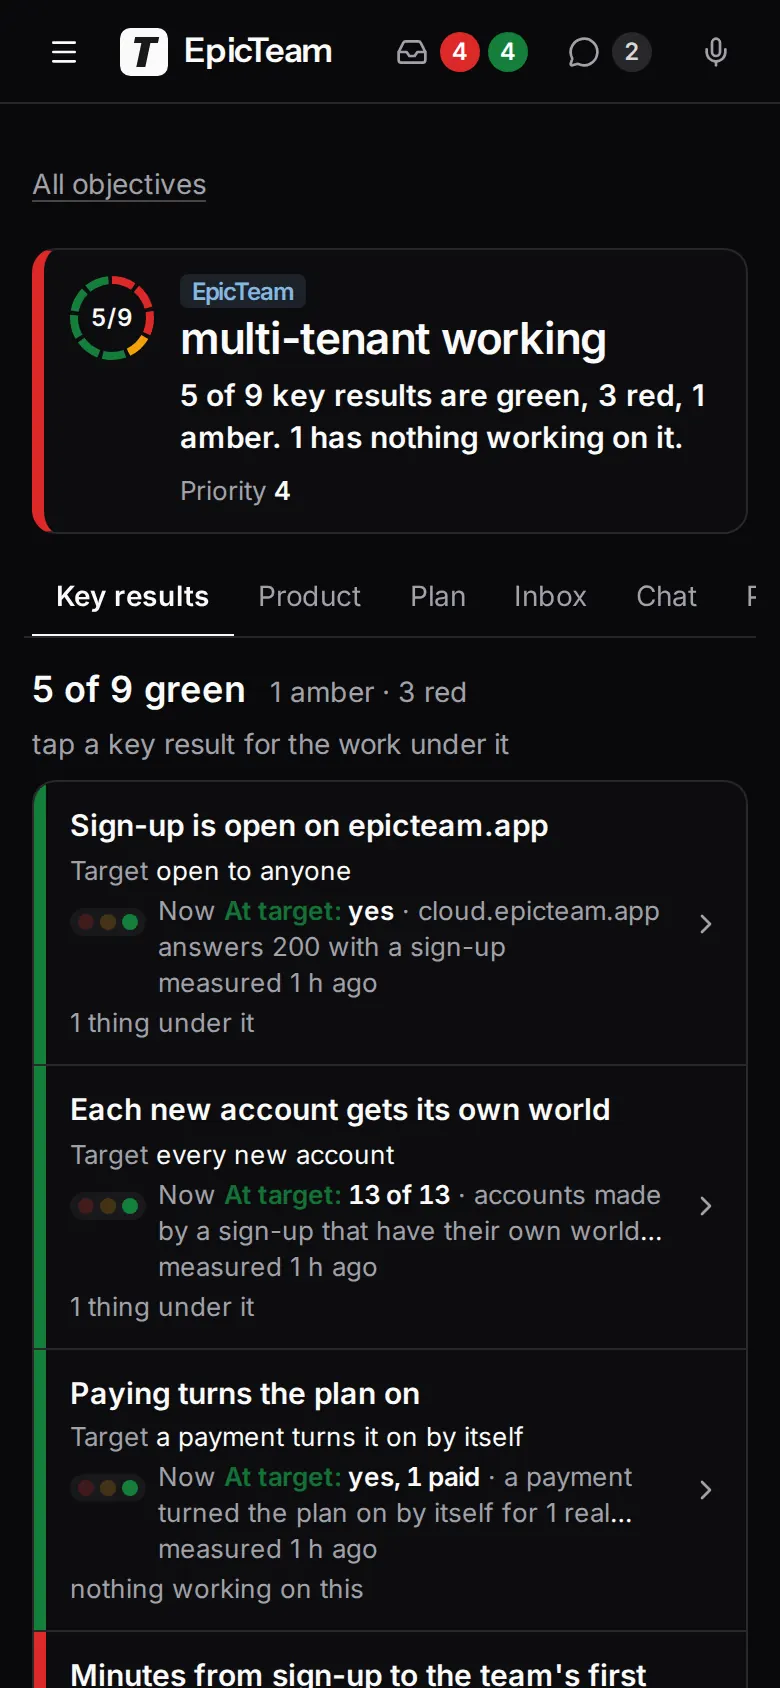
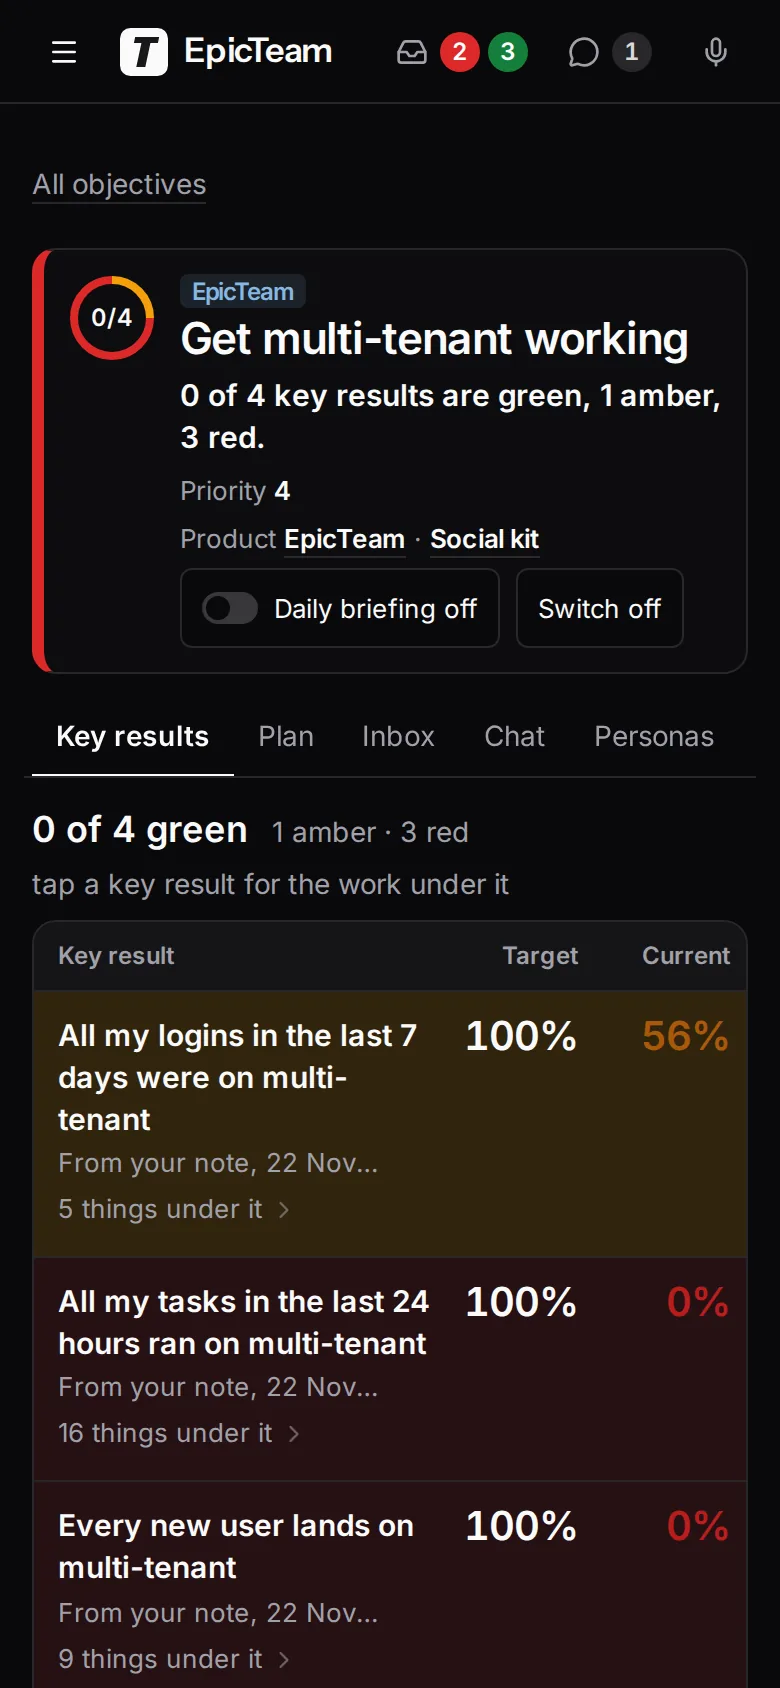
agent_team E97-S25: epicteam.app screenshots retaken from today's console (objective, personas, inbox, seats); animations, text and layout unchanged
Read-only dark captures, sidebar limited to EpicTeam, EpicSocial and Zenod objectives; Seats gains its phone shot (folds E97-S24).

Run: run_73e44478-ad9c-4891-8ad7-aa826c22722e

diff --git a/team/index.html b/team/index.html
@@ -141,7 +141,7 @@
           <a class="btn" href="#fan">See how</a>
         </div>
       </div>
-      <figure class="show dark-shot"><picture><source media="(max-width: 560px)" srcset="shots/objective-phone.webp" width="780" height="1688"><img src="shots/objective.webp" width="1440" height="900" alt="EpicTeam in its dark look: the objective Multi-tenant working, 5 of 9 key results green, each with its target and where it stands now."></picture></figure>
+      <figure class="show dark-shot"><picture><source media="(max-width: 560px)" srcset="shots/objective-phone.webp" width="780" height="1688"><img src="shots/objective.webp" width="1440" height="900" alt="EpicTeam in its dark look: the objective Get multi-tenant working, its key results each with a target and where it stands now, and the objective's tabs."></picture></figure>
     </div>
   </section>
 
@@ -357,8 +357,8 @@
       <h2 id="h-screens">The real app, today.</h2>
       <div class="screens">
         <figure><picture><source media="(max-width: 560px)" srcset="shots/personas-phone.webp" width="780" height="1688"><img src="shots/personas.webp" width="1440" height="900" loading="lazy" alt="The personas of one objective, each with its AI model, how often it wakes, its last run and buttons to run, steer or stop it."></picture><figcaption>Personas wake on their own</figcaption></figure>
-        <figure><picture><img src="shots/seats.webp" width="1440" height="900" loading="lazy" alt="Seats: 16 AI subscriptions in one pool with each one's 5-hour and weekly usage, and which are limited."></picture><figcaption>16 subscriptions, one pool</figcaption></figure>
-        <figure><picture><source media="(max-width: 560px)" srcset="shots/inbox-phone.webp" width="780" height="1688"><img src="shots/inbox.webp" width="1440" height="900" loading="lazy" alt="The inbox: one decision waiting, with where it came from, what was delivered and two answer buttons."></picture><figcaption>Only what needs you</figcaption></figure>
+        <figure><picture><source media="(max-width: 560px)" srcset="shots/seats-phone.webp" width="780" height="1688"><img src="shots/seats.webp" width="1440" height="900" loading="lazy" alt="Seats: 16 AI subscriptions in one pool with each one's 5-hour and weekly usage, and which are limited."></picture><figcaption>16 subscriptions, one pool</figcaption></figure>
+        <figure><picture><source media="(max-width: 560px)" srcset="shots/inbox-phone.webp" width="780" height="1688"><img src="shots/inbox.webp" width="1440" height="900" loading="lazy" alt="The inbox: one decision waiting, with where it came from, the team's recommendation and an answer button for each choice."></picture><figcaption>Only what needs you</figcaption></figure>
       </div>
     </div>
   </section>
